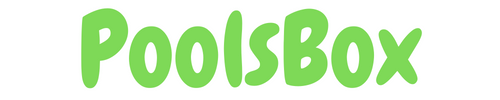
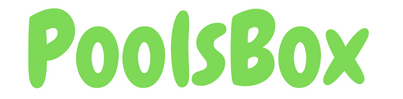
f

diff --git a/templates/base.html b/templates/base.html
@@ -7,8 +7,8 @@
   <meta name="keywords" content="{{tags}}, travel, nature, travelphotography, photography, love, photooftheday, instagood, travelgram, picoftheday, instagram, beautiful, photo, wanderlust, naturephotography, adventure, art, travelblogger, instatravel, landscape, like, summer, explore, trip, vacation, follow, traveling, ig, bhfyp, happy, fashion">
   <meta name="description" content="{% if description %} {{ description|slice:'158' }} {% else %}Travel industry is a reliable source for breaking news from the US and around the world, destination information, hotel headlines, cruise itineraries, and more.{% endif %}" />
   <link rel='canonical' href='https://www.poolsbox.com{{ request.path }}' />
-  <link rel="icon" href='{% static "img/bp.png" %}' type="image/png">
-  <meta property="image" content="{% if image %}{{ image }}{% else %}{% static 'img/bp.png' %} {% endif %}" />
+  <link rel="icon" href='{% static "img/pb.webp" %}' type="image/webp">
+  <meta property="image" content="{% if image %}{{ image }}{% else %}{% static 'img/pb.webp' %} {% endif %}" />
   <meta name="author" content="www.poolsbox.com">
   <meta name="theme-color" content="#2dce89" />
   <!-- Open graph -->
@@ -18,10 +18,10 @@
   <meta property="og:site_name" content="PoolsBox Travel Site" />
   <meta property="article:publisher" content="https://hassan-agmir.freewsad.com" />
   <meta property="article:author" content="https://hassan-agmir.freewsad.com" />
-  <meta property="og:image" content="{% if image %}{{ image }}{% else %}{% static 'img/bp.png' %} {% endif %}" />
+  <meta property="og:image" content="{% if image %}{{ image }}{% else %}{% static 'img/pb.webp' %} {% endif %}" />
   <meta property="og:image:width" content="300" />
   <meta property="og:image:height" content="300" />
-  <meta property="og:image:type" content="image/png" />
+  <meta property="og:image:type" content="image/webp" />
   <meta property="og:locale" content="en_US" />
   <!-- Twitter -->
   <meta name="twitter:creator" content="@PoolsBox" />

diff --git a/templates/components/footer.html b/templates/components/footer.html
@@ -4,16 +4,16 @@
             <div class="col-md-12 text-center">
                 <div class="footer-heading mt-3"><a href="/" class="logo h5 fs-5">Poolsbox.com</a></div>
                 <p class="menu d-flex justify-content-center mt-3 flex-wrap fs-5">
-                    <a href="/" class="nav-link mx-2">Home</a>
-                    <a href="/page/privacy-policy-nkrru" class="nav-link mx-2">Privacy Policy</a>
-                    <a href="/page/about-us-eyere" class="nav-link mx-2">About</a>
-                    <a href="/contact" class="nav-link mx-2">Contact</a>
+                    <a href="/" class="nav-link text-muted mx-2">Home</a>
+                    <a href="/page/privacy-policy-nkrru" class="nav-link text-muted mx-2">Privacy Policy</a>
+                    <a href="/page/about-us-eyere" class="nav-link text-muted mx-2">About</a>
+                    <a href="/contact" class="nav-link text-muted mx-2">Contact</a>
                 </p>
             </div>
         </div>
         <div class="row mt-4">
             <div class="col-md-12 text-center">
-                <p class="copyright fs-5">
+                <p class="fs-5">
                     Copyright ©
                     <script>document.write(new Date().getFullYear());</script> 2021  All rights reserved.
                 </p>

diff --git a/templates/components/header.html b/templates/components/header.html
@@ -1,6 +1,6 @@
 {% load static %}<header class="navbar bg-white navbar-expand-lg border-bottom mb-2 nav">
     <div class="container-fluid">
-      <a class="text-muted logo-text" href="/"><img src="{% static 'img/poolsbox.png' %}" width='182px' height="auto" title="PoolsBox best travel site" alt="PoolsBox travel site" /></a>
+      <a class="text-muted logo-text" href="/"><img src="{% static 'img/poolsbox.webp' %}" width='182px' height="auto" title="PoolsBox best travel site" alt="PoolsBox travel site" /></a>
       <a href="/menu" class="navbar-toggler fs-1"> ≡ </a>
       <nav class="collapse navbar-collapse mx-4" id="navbarSupportedContent">
         <ul class="navbar-nav me-auto mb-2 mb-lg-0">
